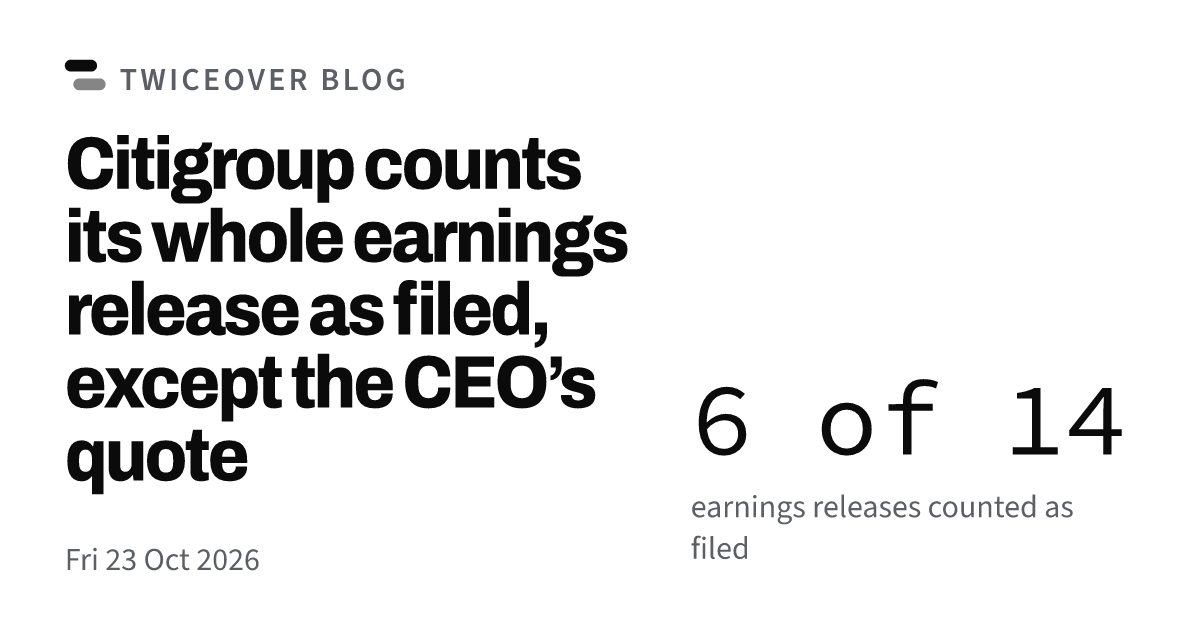
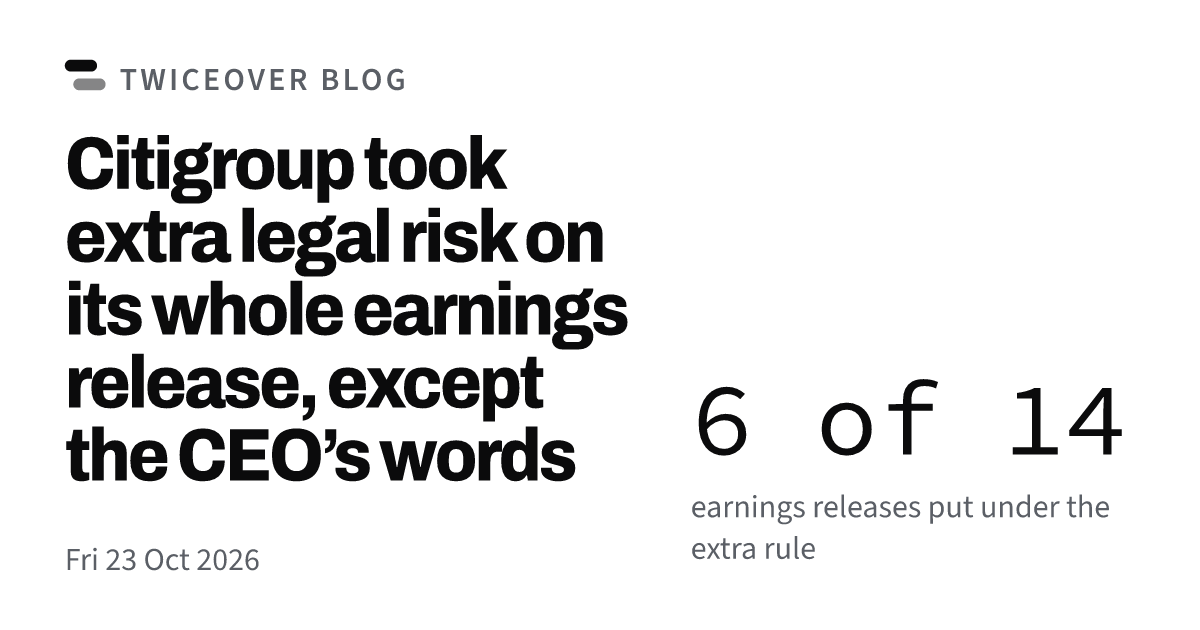
Blog: plain-first title for the Fri 23 Oct post (stock-analyst-platform#4279)
Founder standing rule (blog-writers rule 1): the first screen is plain and sharp.
The title, the card's figure note and the hit now say it without the word "filed".

diff --git a/src/content/blog/earnings-release-filed-or-furnished.md b/src/content/blog/earnings-release-filed-or-furnished.md
@@ -1,15 +1,15 @@
 ---
-title: "Citigroup counts its whole earnings release as filed, except the CEO’s quote"
+title: "Citigroup took extra legal risk on its whole earnings release, except the CEO’s words"
 description: "Citigroup put its whole third-quarter earnings release under an extra legal rule that lets investors sue, except the three paragraphs quoting Citigroup’s CEO. Of 14 large companies we checked, six banks chose the “filed” label and eight kept the default."
 publishAt: "2026-10-23T07:00:00-04:00"
 topic: "reading-the-document"
 lens: "concept"
 build: "text-led"
 look: "exhibit"
-hit: "except the CEO’s quote"
+hit: "except the CEO’s words"
 figure:
   value: "6 of 14"
-  note: "earnings releases counted as filed"
+  note: "earnings releases put under the extra rule"
 sources: "Citigroup 8-K | https://www.sec.gov/Archives/edgar/data/831001/000110465926115323/c-20261013x8k.htm; SEC Form 8-K | https://www.sec.gov/files/form8-k.pdf; Exchange Act Section 18 | https://www.law.cornell.edu/uscode/text/15/78r; SEC EDGAR"
 ---
 
